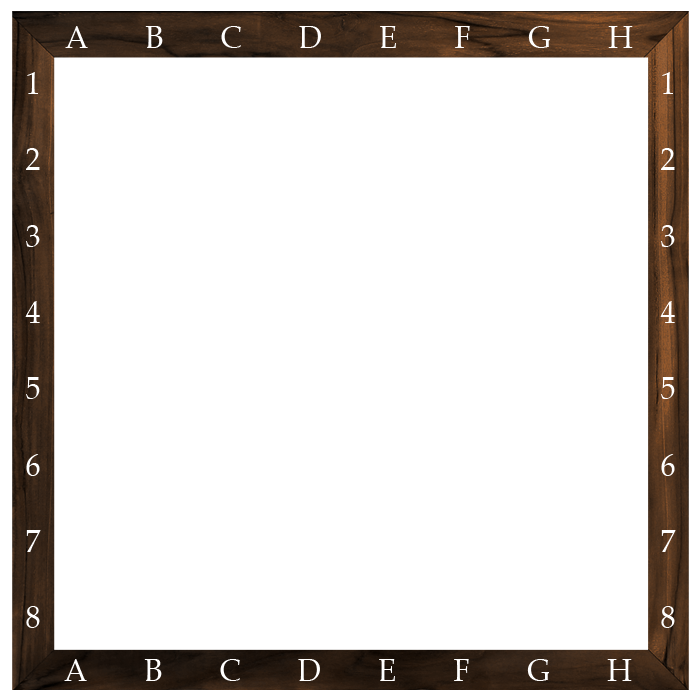
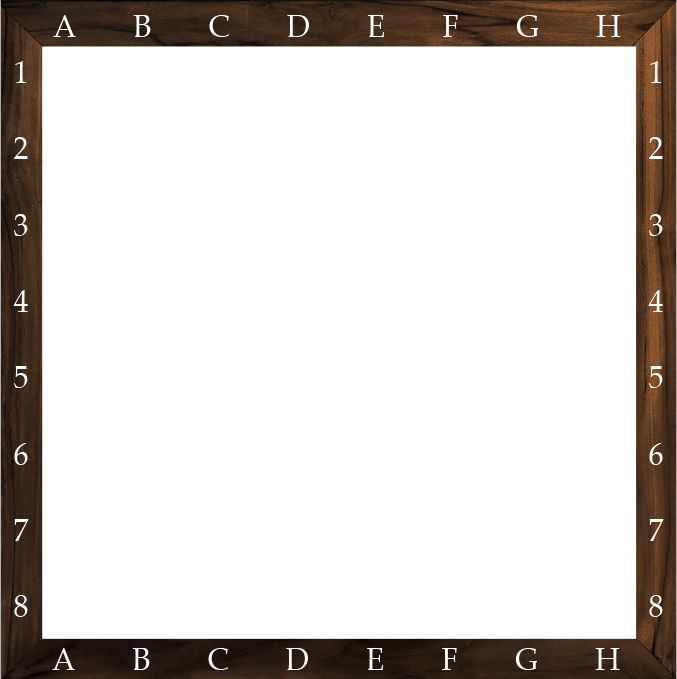
ScrollPane

Changed region(s): [[0.0, 0.0, 1.0, 1.0]]

diff --git a/src/Kode/GUI.java b/src/Kode/GUI.java
@@ -16,19 +16,20 @@ import java.awt.event.ActionListener;
 import java.awt.event.KeyEvent;
 import javax.swing.SpringLayout;
 import java.awt.Container;
+import javax.swing.JLabel;
 
 public class GUI extends JFrame {
 
     //Alle komponenter
-    BrettRute bakgrunn = new BrettRute("src/Kode/Bilder/ramme.png");
+    JLabel bakgrunn = new JLabel("src/Kode/Bilder/GUIbakgrunn.png");
     JMenuBar menuBar = new JMenuBar();
     Sjakk sjakk = new Sjakk();
     Timer timerS;
     Timer timerH;
     JMenu blank = new JMenu("     ");
     Logg logg = new Logg();
-    JTextArea textarea = new JTextArea(2, 12);
-    JTextArea textarea2 = new JTextArea(2, 12);
+    JTextArea textarea = new JTextArea(10, 12);
+    JTextArea textarea2 = new JTextArea(10, 12);
     JScrollPane scrollpane = new JScrollPane(textarea);
     JScrollPane scrollpane2 = new JScrollPane(textarea2);
     JLayeredPane layeredpane;
@@ -71,6 +72,7 @@ public class GUI extends JFrame {
         layout.putConstraint(SpringLayout.WEST, scrollpane, 0, SpringLayout.WEST, contentPane);
         layout.putConstraint(SpringLayout.WEST, sjakk, 152, SpringLayout.WEST, contentPane);
         layout.putConstraint(SpringLayout.WEST, scrollpane2, 755, SpringLayout.WEST, contentPane);
+        layout.putConstraint(SpringLayout.WEST, bakgrunn, 0, SpringLayout.WEST, contentPane);
         
 
         //Menybar

diff --git a/src/Kode/Main.java b/src/Kode/Main.java
@@ -2,7 +2,7 @@ package Kode;
 class Main {
 public static void main(String[] args){
         GUI gui = new GUI("Sjakk");
-        gui.setSize(1080, 700);
+        gui.setSize(930, 700);
         
     }
 }
